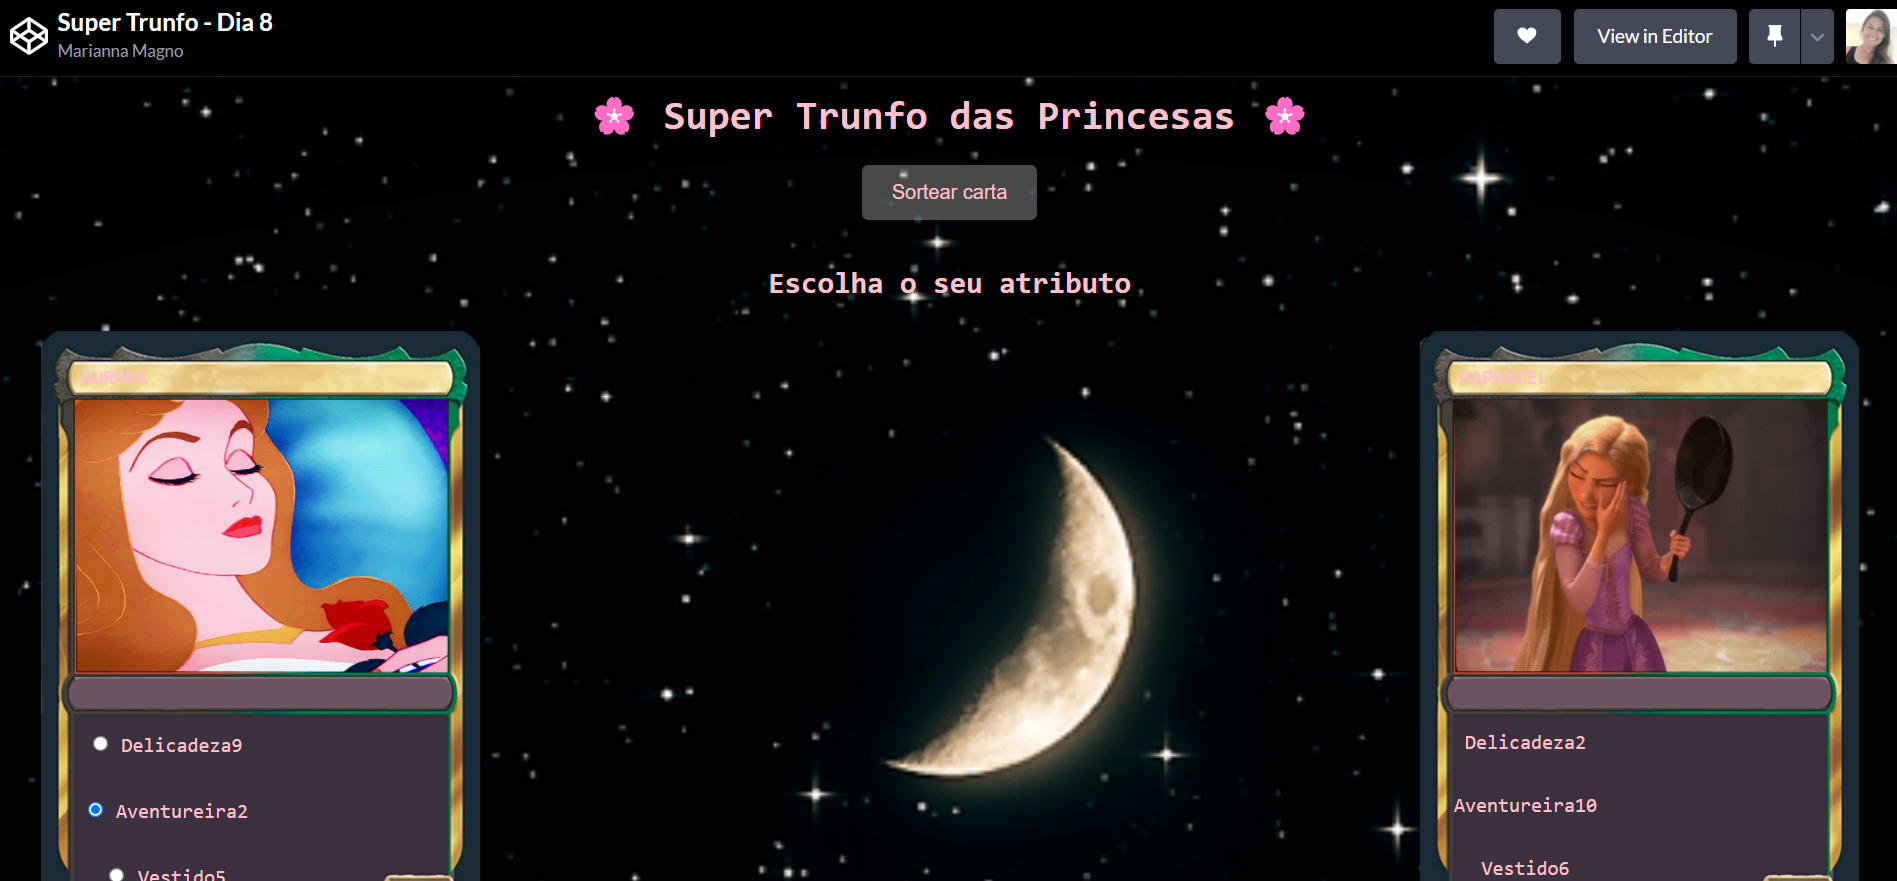
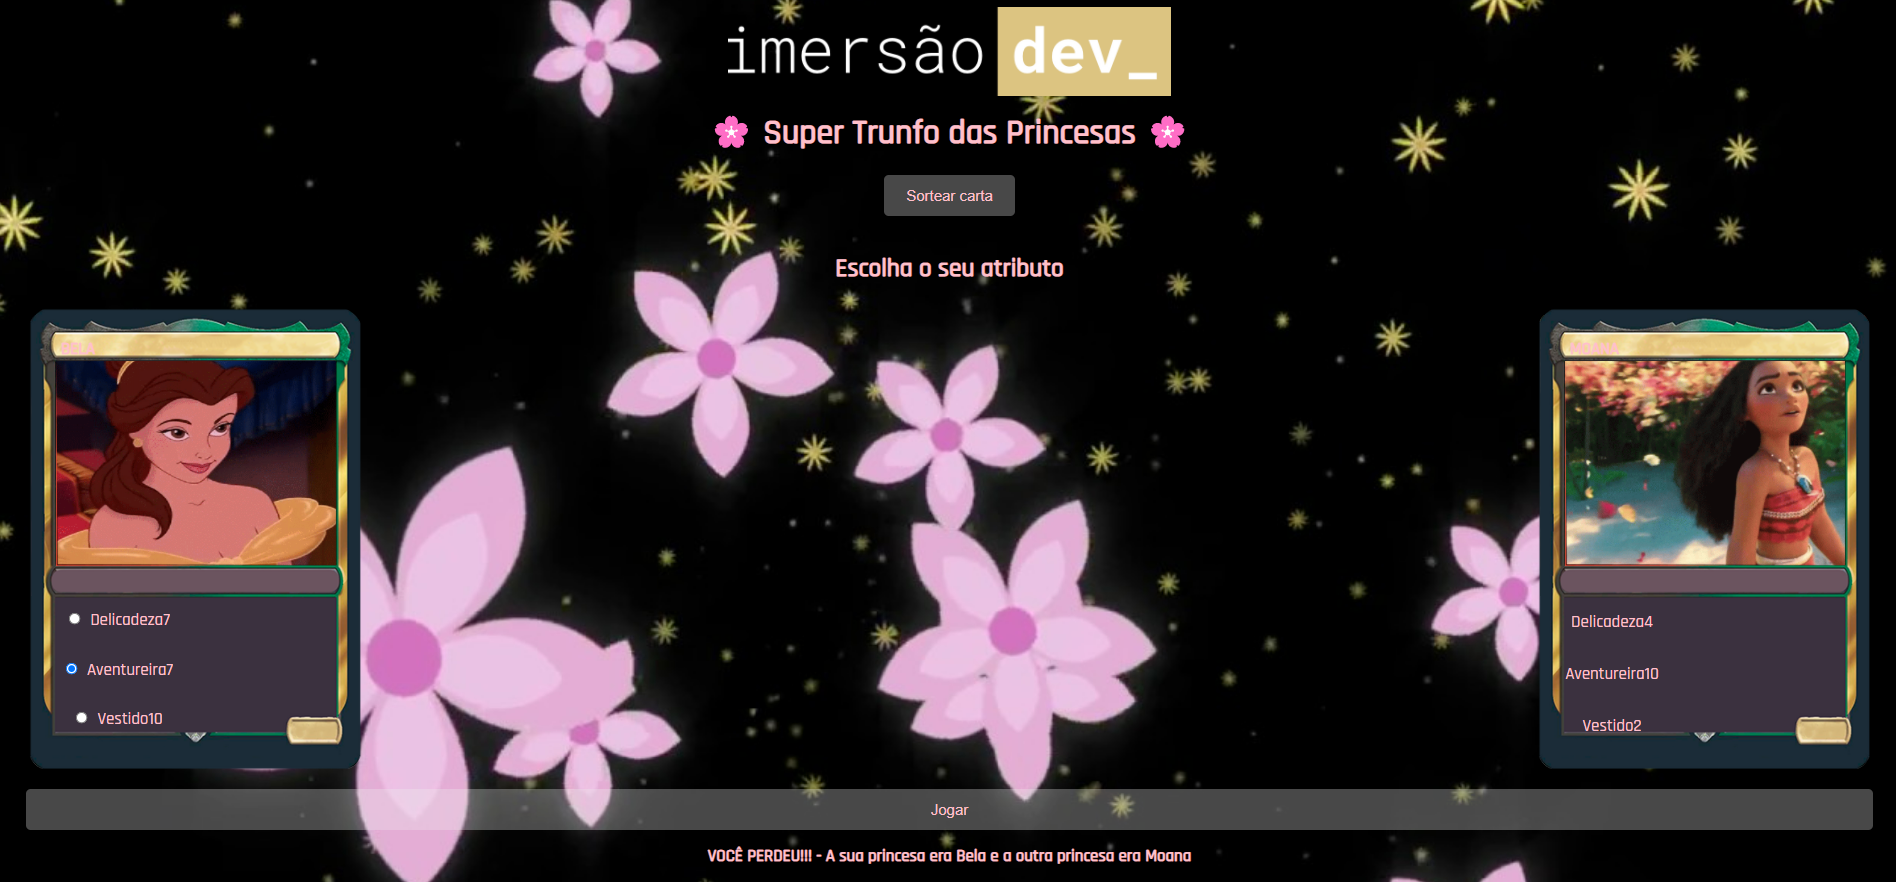
Super Trunfo das Princesas

diff --git a/style.css b/style.css
@@ -1,8 +1,10 @@
-body {
-    font-family: "Roboto Mono", monospace;
+@import url("https://fonts.googleapis.com/css2?family=Rajdhani:wght@300;500&display=swap");
+
+* body {
+  font-family: "Rajdhani";
     min-height: 854px;
-    background-image: url("https://i.pinimg.com/originals/79/8c/31/798c31128884edaf84f2e4d5acd61730.gif");
-    background-color: pink;
+    background-image: url("https://i.ytimg.com/vi/pVc8BpRnlh8/maxresdefault.jpg");
+    background-color: rgb(247, 196, 205);
     background-size: cover;
     background-position: center;
     background-repeat: no-repeat;
@@ -80,7 +82,7 @@ body {
   
   .resultado-final {
     color: pink;
-    font-size: 2rem;
+    font-size: 40px;
     text-transform: uppercase;
     font-weight: bolder;
     padding: 1rem;
@@ -124,5 +126,6 @@ body {
   
   div {
     color: pink;
+    font-size: large;
   }
   

diff --git a/supertrunfo2.js b/supertrunfo2.js
@@ -107,6 +107,7 @@ var carta1 = {
     exibirCartaJogador();
   }
   
+  
   function obtemAtributoSelecionado() {
     //GetElementsByName, está pegando o atributo do Input type NAME.
     var radioAtributos = document.getElementsByName("atributo");
